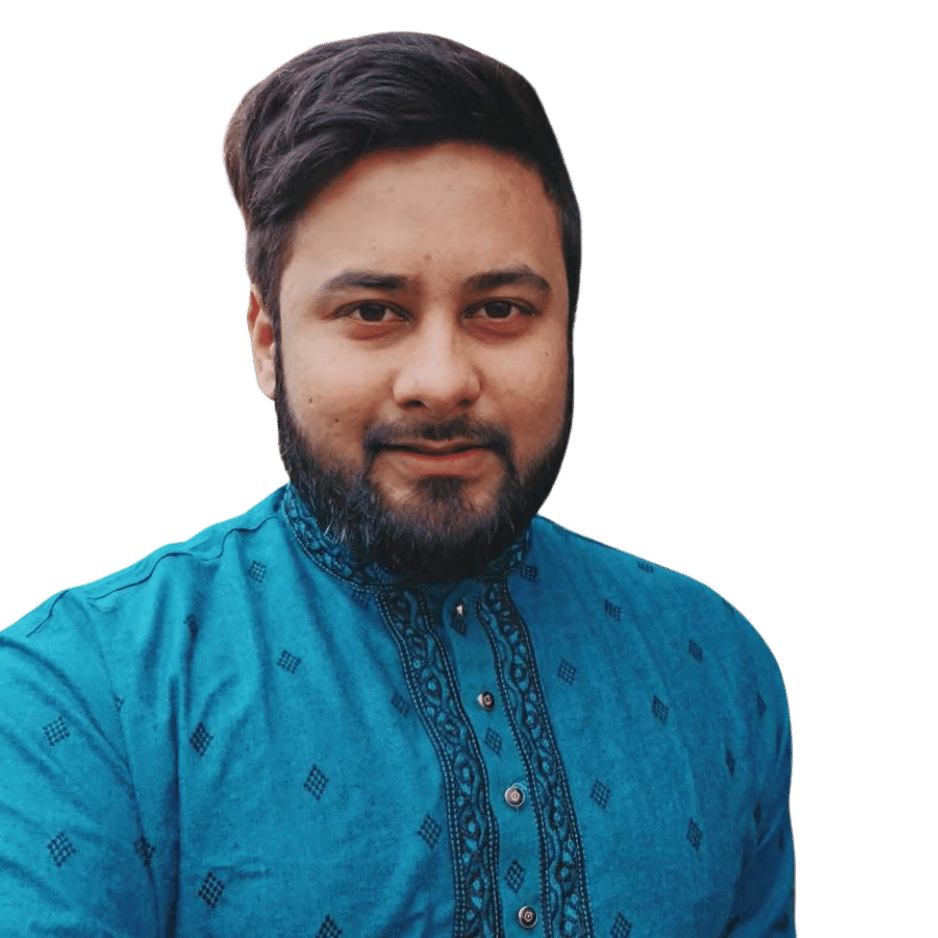
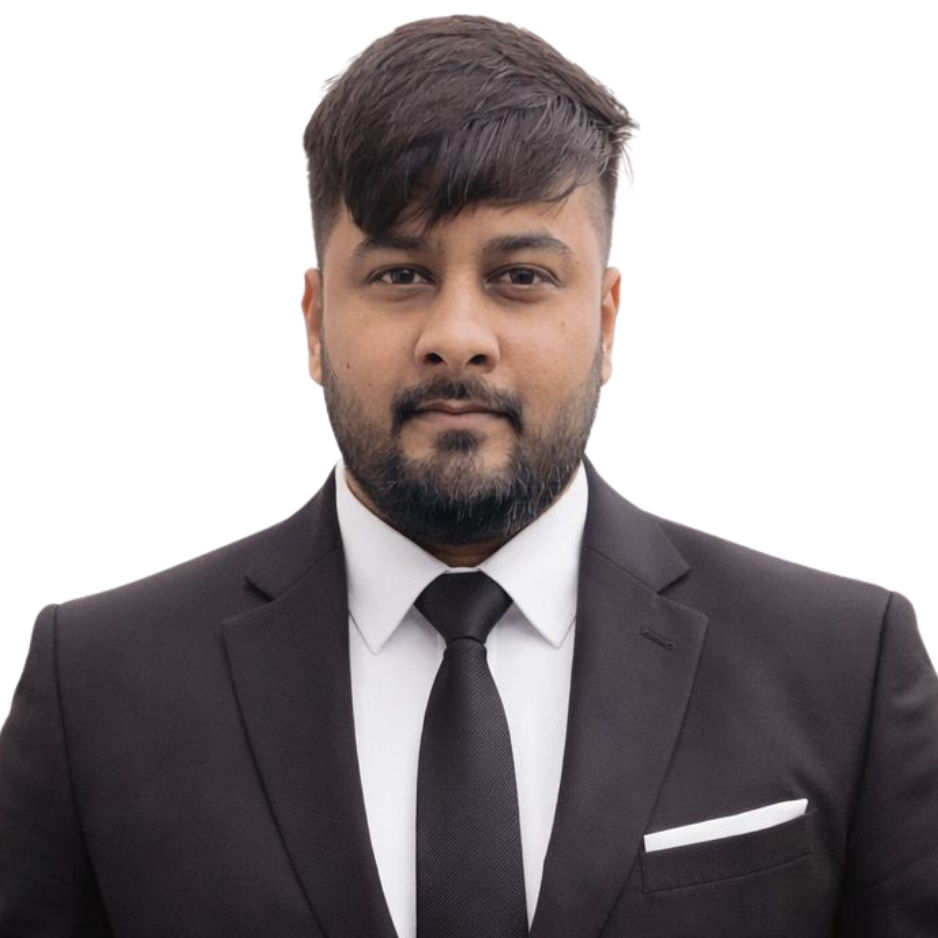
updated with minor

diff --git a/src/app/core/footer.html b/src/app/core/footer.html
@@ -71,49 +71,49 @@
                         <!-- Facebook -->
                         <a href="https://www.facebook.com/bnpbd.org" target="_blank"
                             class="w-[30px] h-[30px] rounded bg-[#3b5998] flex items-center justify-center text-white hover:opacity-90 transition-opacity cursor-pointer">
-                            <svg class="w-4 h-4 fill-current" viewBox="0 0 24 24">
+                            <svg class="w-4 h-4 fill-current" viewBox="0 0 320 512">
                                 <path
-                                    d="M24 12.073c0-6.627-5.373-12-12-12s-12 5.373-12 12c0 5.99 4.388 10.954 10.125 11.854v-8.385H7.078v-3.469h3.047V9.43c0-3.007 1.792-4.669 4.533-4.669 1.312 0 2.686.235 2.686.235v2.953H15.83c-1.491 0-1.956.925-1.956 1.874v2.25h3.328l-.532 3.469h-2.796v8.385C19.612 23.027 24 18.062 24 12.073z" />
+                                    d="M279.14 288l14.22-92.66h-88.91v-60.13c0-25.35 12.42-50.06 52.24-50.06h40.42V6.26l-73.43-.01c-81.65 0-134.7 49.37-134.7 138.83v70.26H31.54V288h57.43v224h103.34V288h86.83z" />
                             </svg>
                         </a>
                         <!-- YouTube -->
                         <a href="https://www.youtube.com/@bdbnp" target="_blank"
                             class="w-[30px] h-[30px] rounded bg-[#ff0000] flex items-center justify-center text-white hover:opacity-90 transition-opacity cursor-pointer">
-                            <svg class="w-4 h-4 fill-current" viewBox="0 0 24 24">
+                            <svg class="w-4 h-4 fill-current" viewBox="0 0 576 512">
                                 <path
-                                    d="M23.498 6.186a3.016 3.016 0 0 0-2.122-2.136C19.505 3.545 12 3.545 12 3.545s-7.505 0-9.377.505A3.017 3.017 0 0 0 .502 6.186C0 8.07 0 12 0 12s0 3.93.502 5.814a3.016 3.016 0 0 0 2.122 2.136c1.871.505 9.376.505 9.376.505s7.505 0 9.377-.505a3.015 3.015 0 0 0 2.122-2.136C24 15.93 24 12 24 12s0-3.93-.502-5.814zM9.545 15.568V8.432L15.818 12l-6.273 3.568z" />
+                                    d="M549.655 124.083c-6.281-23.65-24.787-42.276-48.284-48.597C458.781 64 288 64 288 64S117.22 64 74.629 75.486c-23.497 6.322-42.003 24.947-48.284 48.597-11.412 42.867-11.412 132.305-11.412 132.305s0 89.438 11.412 132.305c6.281 23.65 24.787 41.5 48.284 47.821C117.22 448 288 448 288 448s170.781 0 213.371-11.486c23.497-6.321 42.003-24.171 48.284-47.821 11.412-42.867 11.412-132.305 11.412-132.305s0-89.438-11.412-132.305zm-317.51 213.508V175.185l142.739 81.205-142.739 81.201z" />
                             </svg>
                         </a>
                         <!-- Instagram -->
                         <a href="https://www.instagram.com/bnpbd/" target="_blank"
                             class="w-[30px] h-[30px] rounded bg-[#E4405F] flex items-center justify-center text-white hover:opacity-90 transition-opacity cursor-pointer">
-                            <svg class="w-4 h-4 fill-current" viewBox="0 0 24 24">
+                            <svg class="w-4 h-4 fill-current" viewBox="0 0 448 512">
                                 <path
-                                    d="M12 2.163c3.204 0 3.584.012 4.85.07 3.252.148 4.771 1.691 4.919 4.919.058 1.265.069 1.645.069 4.849 0 3.205-.012 3.584-.069 4.849-.149 3.225-1.664 4.771-4.919 4.919-1.266.058-1.644.07-4.85.07-3.204 0-3.584-.012-4.849-.07-3.26-.149-4.771-1.699-4.919-4.92-.058-1.265-.07-1.644-.07-4.849 0-3.204 013-3.583.07-4.849.149-3.227 1.664-4.771 4.919-4.919 1.266-.057 1.645-.069 4.849-.069zM12 0C8.741 0 8.333.014 7.053.072 2.695.272.273 2.69.073 7.052.014 8.333 0 8.741 0 12c0 3.259.014 3.668.072 4.948.2 4.358 2.618 6.78 6.98 6.981 1.281.058 1.689.072 4.948.072 3.259 0 3.668-.014 4.948-.072 4.354-.2 6.782-2.618 6.981-6.98.058-1.28.072-1.689.072-4.948 0-3.259-.014-3.668-.072-4.948-.199-4.359-2.617-6.78-6.981-6.981C15.668.014 15.259 0 12 0zm0 5.838a6.162 6.162 0 1 0 0 12.324 6.162 6.162 0 0 0 0-12.324zM12 16a4.162 4.162 0 1 1 0-8.324A4.162 4.162 0 0 1 12 16zm6.406-11.845a1.44 1.44 0 1 0 0 2.881 1.44 1.44 0 0 0 0-2.881z" />
+                                    d="M224.1 141c-63.6 0-114.9 51.3-114.9 114.9s51.3 114.9 114.9 114.9S339 319.5 339 255.9 287.7 141 224.1 141zm0 189.6c-41.1 0-74.7-33.5-74.7-74.7s33.5-74.7 74.7-74.7 74.7 33.5 74.7 74.7-33.6 74.7-74.7 74.7zm146.4-194.3c0 14.9-12 26.8-26.8 26.8-14.9 0-26.8-12-26.8-26.8s12-26.8 26.8-26.8 26.8 12 26.8 26.8zm76.1 27.2c-1.7-35.9-9.9-67.7-36.2-93.9-26.2-26.2-58-34.4-93.9-36.2-37-2.1-147.9-2.1-184.9 0-35.8 1.7-67.6 9.9-93.9 36.1s-34.4 58-36.2 93.9c-2.1 37-2.1 147.9 0 184.9 1.7 35.9 9.9 67.7 36.2 93.9s58 34.4 93.9 36.2c37 2.1 147.9 2.1 184.9 0 35.9-1.7 67.7-9.9 93.9-36.2 26.2-26.2 34.4-58 36.2-93.9 2.1-37 2.1-147.8 0-184.8zM398.8 388c-7.8 19.6-22.9 34.7-42.6 42.6-29.5 11.7-99.5 9-132.1 9s-102.7 2.6-132.1-9c-19.6-7.8-34.7-22.9-42.6-42.6-11.7-29.5-9-99.5-9-132.1s-2.6-102.7 9-132.1c7.8-19.6 22.9-34.7 42.6-42.6 29.5-11.7 99.5-9 132.1-9s102.7-2.6 132.1 9c19.6 7.8 34.7 22.9 42.6 42.6 11.7 29.5 9 99.5 9 132.1s2.7 102.7-9 132.1z" />
                             </svg>
                         </a>
                         <!-- X (Twitter) -->
                         <a href="https://x.com/bdbnp78" target="_blank"
                             class="w-[30px] h-[30px] rounded bg-black flex items-center justify-center text-white hover:opacity-90 transition-opacity cursor-pointer">
-                            <svg class="w-3.5 h-3.5 fill-current" viewBox="0 0 24 24">
+                            <svg class="w-4 h-4 fill-current" viewBox="0 0 512 512">
                                 <path
-                                    d="M18.244 2.25h3.308l-7.227 8.26 8.502 11.24H16.17l-5.214-6.817L4.99 21.75H1.68l7.73-8.835L1.254 2.25H8.08l4.713 6.231zm-1.161 17.52h1.833L7.084 4.126H5.117z" />
+                                    d="M389.2 48h70.6L305.6 224.2 487 464H345L233.7 318.6 106.5 464H35.8L200.7 275.5 26.8 48H172.4L272.9 180.9 389.2 48zM364.4 421.8h39.1L151.1 88h-42L364.4 421.8z" />
                             </svg>
                         </a>
                         <!-- Telegram -->
                         <a href="https://t.me/bnpbd_org" target="_blank"
                             class="w-[30px] h-[30px] rounded bg-[#0088cc] flex items-center justify-center text-white hover:opacity-90 transition-opacity cursor-pointer">
-                            <svg class="w-4 h-4 fill-current" viewBox="0 0 24 24">
+                            <svg class="w-4 h-4 fill-current" viewBox="0 0 496 512">
                                 <path
-                                    d="M12 24c6.627 0 12-5.373 12-12S18.627 0 12 0 0 5.373 0 12s5.373 12 12 12zm5.57-17.027c.18.174.225.453.12.67l-2.025 9.495c-.09.435-.39.54-.75.345l-3.075-2.265-1.485 1.425c-.165.165-.3.3-.615.3l.225-3.18 5.79-5.22c.255-.225-.06-.345-.39-.12l-7.155 4.5-3.09-.96c-.675-.21-.69-.675.14-.99l12.06-4.65c.42-.15.795.12.765.66z" />
+                                    d="M248 8C111.033 8 0 119.033 0 256s111.033 248 248 248 248-111.033 248-248S384.967 8 248 8zm114.907 155.03c-3.13 29.56-15.01 99.17-21.04 131.42a15.82 15.82 0 0 1-5.18 10c-3.77 3-10.22 5.34-19 1l-50.62-37.38c-8.5-6.28-13.41-10.45-5.32-22.12 1.88-2.71 33-31.54 60.1-57.17 3.32-3.15 6.42-6.24 9.17-9 1.4-1.4 6-6.14.73-8.86-5.4-2.81-12.87.67-17.5 1.5l-84.5 54.12c-10.46 6.7-20 7.55-27.14 5.37l-43.2-13.6c-7.6-2.4-13.6-3.67-13.06-8.55s6.14-8 17-12.2l175-67c13.4-4.66 22.8-5.34 29.6 1.13a20.24 20.24 0 0 1 5.09 13.34z" />
                             </svg>
                         </a>
                         <!-- TikTok -->
                         <a href="https://www.tiktok.com/@bnpbd_org" target="_blank"
-                            class="w-[30px] h-[30px] rounded bg-black flex items-center justify-center text-white hover:opacity-90 transition-opacity ring-1 ring-white/10 cursor-pointer">
-                            <svg class="w-4 h-4 fill-current" viewBox="0 0 24 24">
+                            class="w-[30px] h-[30px] rounded bg-black flex items-center justify-center text-white hover:opacity-90 transition-opacity cursor-pointer">
+                            <svg class="w-4 h-4 fill-current" viewBox="0 0 448 512">
                                 <path
-                                    d="M12.525.02c1.31-.02 2.61-.01 3.91-.02.08 1.53.63 3.09 1.75 4.17 1.12 1.11 2.7 1.62 4.24 1.79v4.03c-1.44-.17-2.81-.6-4.03-1.37-.01 3.9 0 7.8-.02 11.7-.02 2.85-1.24 5.83-4.04 7.21-3.32 1.62-7.8 1.14-10.43-1.49-2.8-2.81-2.9-7.89-.13-10.87 2.15-2.3 5.71-3.07 8.64-1.92.05 1.35.03 2.7.02 4.05-1.59-.44-3.41-.09-4.59 1.15-1.25 1.31-1.3 3.65-.13 5.03.92 1.11 2.45 1.49 3.84 1.19 1.35-.29 2.3-1.54 2.4-2.9.04-4.8 0-9.6.01-14.4z" />
+                                    d="M448 209.91a210.06 210.06 0 0 1-122.77-39.25v178.72A162.55 162.55 0 1 1 185 188.31v89.89a74.62 74.62 0 1 0 52.23 71.18V0h88a121.18 121.18 0 0 0 1.86 22.17h0A122.18 122.18 0 0 0 381 102.39a121.43 121.43 0 0 0 67 20.14z" />
                             </svg>
                         </a>
                     </div>

diff --git a/src/app/core/pages/contact-us/contact-us.html b/src/app/core/pages/contact-us/contact-us.html
@@ -97,9 +97,9 @@
                             <!-- TikTok -->
                             <a href="https://www.tiktok.com/@bnpbd_org" target="_blank"
                                 class="w-10 h-10 rounded-xl bg-black flex items-center justify-center text-white hover:opacity-90 transition-opacity ring-1 ring-white/10">
-                                <svg class="w-5 h-5 fill-current" viewBox="0 0 24 24">
+                                <svg class="w-5 h-5 fill-current" viewBox="0 0 448 512">
                                     <path
-                                        d="M12.525.02c1.31-.02 2.61-.01 3.91-.02.08 1.53.63 3.09 1.75 4.17 1.12 1.11 2.7 1.62 4.24 1.79v4.03c-1.44-.17-2.81-.6-4.03-1.37-.01 3.9 0 7.8-.02 11.7-.02 2.85-1.24 5.83-4.04 7.21-3.32 1.62-7.8 1.14-10.43-1.49-2.8-2.81-2.9-7.89-.13-10.87 2.15-2.3 5.71-3.07 8.64-1.92.05 1.35.03 2.7.02 4.05-1.59-.44-3.41-.09-4.59 1.15-1.25 1.31-1.3 3.65-.13 5.03.92 1.11 2.45 1.49 3.84 1.19 1.35-.29 2.3-1.54 2.4-2.9.04-4.8 0-9.6.01-14.4z" />
+                                        d="M448 209.91a210.06 210.06 0 0 1-122.77-39.25v178.72A162.55 162.55 0 1 1 185 188.31v89.89a74.62 74.62 0 1 0 52.23 71.18V0h88a121.18 121.18 0 0 0 1.86 22.17h0A122.18 122.18 0 0 0 381 102.39a121.43 121.43 0 0 0 67 20.14z" />
                                 </svg>
                             </a>
                         </div>

diff --git a/src/app/core/pages/about-us/about-us.ts b/src/app/core/pages/about-us/about-us.ts
@@ -50,7 +50,7 @@ export class AboutUsComponent implements OnInit {
                     facebookLink: 'https://www.facebook.com/salim.mahmud.7758'
                 },
                 {
-                    name: 'জুল আফরোজ',
+                    name: 'জুল আফরোজ মজুমদার',
                     role: 'ওয়েবসাইট টিম',
                     photoUrl: '/teams/Zul_Afros.png',
                     facebookLink: 'https://www.facebook.com/zul.afros'
